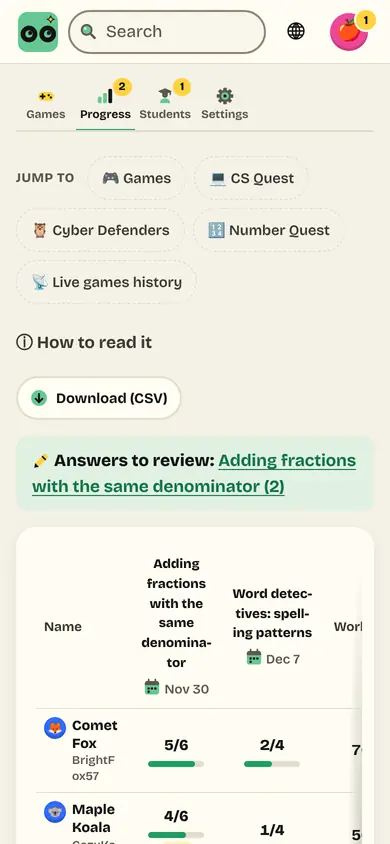
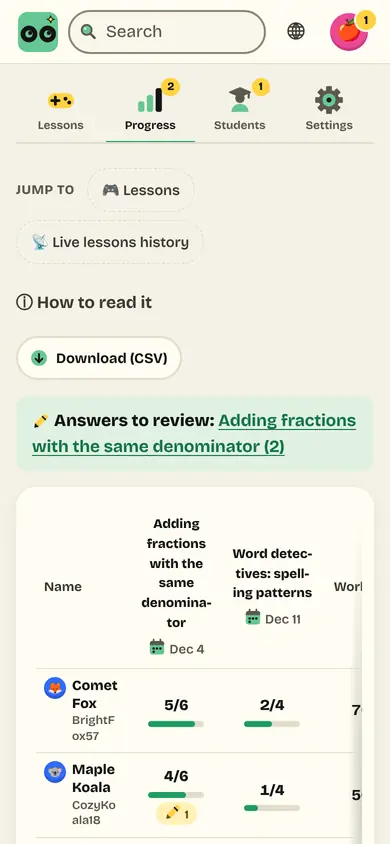
Marketing follow-ups: footer line, no "free" on /teachers/live, Ask Oomba on /compliance, gradebook shot without courses
- Footer: "Free to play, free to build" becomes "Learn, play and build" (12 locales; en-GB reads the English). True for
  everyone, and it names no plan, price or "free" on kids' pages.
- /teachers/live: no "free" claims in the title, description, lead, badges or button; "Host a live lesson". The FAQ
  answer about cost stays (it is accurate: hosting has no plan gate).
- /compliance "Who else receives data": a new Ask Oomba item (Anthropic, traced from services/companion.js), shown
  while COMPANION is on. LEGAL_UPDATED and TRUST_UPDATED 2026-11-27; docs/legal-review.md entry with what the code sends.
- How it works on /teachers: the gradebook step retaken with courses off (no CS Quest, Cyber Defenders or Number Quest
  chips), light and dark, all four sizes. scripts/how-shots.js passes COURSES (default 0) and takes --slug.

Claude-Session: https://claude.ai/code/session_013fJHoNyx7YpmiySDgm2YvR

diff --git a/tests/unit/teacher-marketing.test.js b/tests/unit/teacher-marketing.test.js
@@ -111,6 +111,27 @@ test('/teachers with paid plans off: no free line, no trial; the first button ma
   } finally { config.billingPublic = was; }
 });
 
+test('footer line: "Learn, play and build" on every page with the site footer, kids too, in every language; never a plan, price or "free"', async () => {
+  const kid = auth.createUser({ username: 'FootKid', password: 'a-long-password-1', displayName: 'Foot Kid' });
+  for (const [path, u] of [['/teachers', null], ['/teachers/live', null], ['/compliance', null], ['/me', kid]]) {
+    const s = (await get(path, u)).text, foot = s.slice(s.lastIndexOf('<footer class="foot">'));
+    assert.match(foot, /<span>© Oomba Academy · Learn, play and build<\/span>/, path);
+    assert.doesNotMatch(foot.slice(0, foot.indexOf('</span>')), /free|plan|price/i, path);
+  }
+  for (const [c, line] of [['es', 'Aprende, juega y crea'], ['de', 'Lernen, spielen und bauen'], ['ja', 'まなぶ、あそぶ、つくる'], ['he', 'לומדים, משחקים ובונים']]) assert.equal(makeT(c)('layout.footer.tagline'), `© Oomba Academy · ${line}`, c);
+});
+
+test('/teachers/live: no "free" claims (title, description, lead, badges, buttons); the way in is "Host a live lesson"', async () => {
+  const s = (await get('/teachers/live')).text;
+  const at = s.indexOf('<section class="lp-hero'), hero = s.slice(at, s.indexOf('</section>', at));
+  assert.ok(at > 0);
+  assert.match(s, /<title>Oomba Live: live quiz lessons for your class · Oomba Academy<\/title>/);
+  assert.match(s, /<a class="btn btn-primary btn-big" href="\/teachers\/host">▶ Host a live lesson<\/a>/);
+  assert.doesNotMatch(hero, /\bfree\b/i, 'hero: no free claim');
+  assert.doesNotMatch(s, /Free for teachers|Host a free live|free live quiz|One free account/i);
+  for (const c of ['es', 'fr', 'de', 'ja', 'zh-Hant']) { const t = makeT(c); assert.equal(t('teachersLive.badges.free'), 'teachersLive.badges.free', `${c}: the free badge is gone`); }
+});
+
 test('tagline: "Screen time you can feel good about" on "/" (footer) and /parents (under the heading), in every language', async () => {
   assert.match((await get('/')).text, /<div class="lp-foot-brand">[\s\S]*?<p class="lp-tagline">Screen time you can feel good about<\/p>/);
   const p = (await get('/parents')).text;

diff --git a/scripts/how-shots.js b/scripts/how-shots.js
@@ -8,6 +8,8 @@
 // (<slug>-dark-p-390.webp ...; views/how.js shows those when the page is dark).
 //
 // Usage: npm run how-shots [-- --only parents|teachers|live|dash|tools] [-- --theme dark] [-- --keep]     (--keep leaves the temp data and PNGs)
+//        [-- --slug <slug>] writes only that step's pictures (e.g. --only teachers --slug teachers-gradebook)
+//        COURSES (1 or 0) is passed to the server; unset is off, as on the live site.
 //        HOW_PORT=5990 (the server; the fake Stripe for the family step uses HOW_PORT + 1)
 //        HOW_REAL_BUILDER=1 with ANTHROPIC_API_KEY set: the Builder step from Claude (not deterministic: check it by eye).
 // The tools group (the landing and /teachers): a live math room with every student's square, and a Figures worksheet
@@ -112,6 +114,7 @@ async function main() {
     BRB_DATA_DIR: DATA, PORT: String(PORT), ADMIN_USERNAME: 'admin', ADMIN_PASSWORD: crypto.randomBytes(12).toString('hex'),
     ANTHROPIC_API_KEY: realBuilder ? process.env.ANTHROPIC_API_KEY : '', BRB_MOCK_DELAY_MS: '0',
     BRB_SILENT: '1', TRUST_PROXY: '1', BRB_SNAPSHOTS: '0', CONTACT_EMAIL: 'help@example.com', BRB_ALL_LOCALES: '1',
+    COURSES: process.env.COURSES || '0',
     STRIPE_API_VERSION: '', STRIPE_TAX: '', STRIPE_LIVE_OK: '', STRIPE_WEBHOOK_SECRET_OLD: '', BILLING_PREVIEW_TOKEN: '',
   };
   // Paid-plan pages off: no Stripe at all (the live site today).
@@ -162,7 +165,8 @@ async function main() {
       made.push(...await familyShots(shooter));
     }
     await browser.close(); browser = null;
-    const files = await encodeAll(made, PNG);
+    const slug = args.includes('--slug') ? args[args.indexOf('--slug') + 1] : null;
+    const files = await encodeAll(slug ? made.filter(m => m.slug === slug) : made, PNG);
     report(files);
   } finally {
     if (browser) await browser.close().catch(() => {});

diff --git a/server/routes/trust.js b/server/routes/trust.js
@@ -16,6 +16,7 @@ import { page } from '../views/layout.js';
 import { tHtml, availableLocales, fmt, DEFAULT_LOCALE } from '../i18n/index.js';
 import { isPlatformAdmin } from '../services/schools.js';
 import { googleEnabled } from '../oidc.js';
+import { config } from '../config.js';
 import * as seo from '../seo.js';
 import { el, fb, lp, contactEmail } from './teachers.js';
 import { ico } from '../views/icon.js';
@@ -23,7 +24,7 @@ import { ico } from '../views/icon.js';
 export const router = Router();
 
 /** Last change to the text of these two pages (sitemap lastmod, "Updated" line). Change it with the text. */
-export const TRUST_UPDATED = '2026-11-10';
+export const TRUST_UPDATED = '2026-11-27';
 
 /** The three verified reviews (and only these). The percentiles in research.<key>.stat are where the average student
  *  in the game group lands among the comparison group, from the effect size with normally distributed scores
@@ -143,7 +144,7 @@ router.get('/compliance', (req, res) => {
       ${sec('gdpr', [], { extra: html`${el(t, 'p', 'compliance.gdpr.p1', vars)}${el(t, 'p', 'compliance.gdpr.p2', vars)}${pending(req, 'gdpr')}` })}
       ${sec('dpa', [], { extra: html`${el(t, 'p', 'compliance.dpa.p1', vars)}${el(t, 'p', 'compliance.dpa.p2', vars)}${pending(req, 'dpa')}` })}
       ${sec('keep', ['li1', 'li2', 'li3'])}
-      ${sec('others', ['li1', ...(google ? ['li2'] : []), 'li3'])}
+      ${sec('others', ['li1', ...(config.companion ? ['ask'] : []), ...(google ? ['li2'] : []), 'li3'])}
       ${sec('security', ['li1', 'li2', ...(google ? ['li3'] : [])])}
     </div>
     <section class="panel" id="contact" aria-labelledby="contact-h">${el(t, 'h2', 'compliance.contact.h', {}, ' id="contact-h"')}${el(t, 'p', 'compliance.contact.p', vars)}</section>

diff --git a/tests/unit/research-compliance.test.js b/tests/unit/research-compliance.test.js
@@ -102,6 +102,23 @@ test('/compliance: facts from the Privacy Policy, no compliance claims, contact 
   for (const c of CODES) assert.ok(!JSON.stringify(locale(c)).includes('OWNER AND LAWYER'), c);
 });
 
+test('/compliance "Who else receives data": Ask Oomba (Anthropic) after the Builder item while COMPANION is on, in every language', async () => {
+  const { config } = await import('../../server/config.js');
+  const was = config.companion;
+  try {
+    config.companion = true;
+    const h = main((await get('/compliance')).text);
+    const others = h.slice(h.indexOf('id="others"'), h.indexOf('id="security"'));
+    const words = text(others);
+    assert.ok(words.indexOf('the AI that makes games') < words.indexOf('for Ask Oomba'), 'after the Builder item');
+    for (const s of ['Anthropic (Claude, as above), for Ask Oomba', 'Students’ names, emails, phone numbers and links are taken out first', 'Students’ names and work are never sent', 'Google’s Gemini API']) assert.ok(words.includes(s), s);
+    assert.match(others, /see our <a href="\/privacy">Privacy Policy<\/a>\./);
+    config.companion = false;
+    assert.ok(!text(main((await get('/compliance')).text)).includes('for Ask Oomba'), 'COMPANION off: no item');
+  } finally { config.companion = was; }
+  for (const c of CODES.filter(x => x !== 'en-GB')) { const v = locale(c).compliance.others.ask; assert.ok(v && v.includes('Anthropic') && v.includes('Student A') && v.includes('{privacy}'), c); assert.doesNotMatch(v, /\u2014/, c); }
+});
+
 test('footer links to /research and /compliance for grown-ups who teach and the signed-out, not for kids', async () => {
   const out = (await get('/teachers')).text;
   const foot = out.slice(out.lastIndexOf('<footer'));

diff --git a/tests/unit/legal.test.js b/tests/unit/legal.test.js
@@ -39,7 +39,7 @@ test('/terms, /refunds and /privacy are public, dated, and show every paragraph 
     const r = await get(path); assert.equal(r.status, 200, path);
     const text = decode(r.text);
     assert.match(text, new RegExp(`<h1>[^<]*${en[`info.${key}.heading`]}</h1>`), `${path} heading`);
-    assert.match(text, new RegExp(`Last updated: <time datetime="${LEGAL_UPDATED}">November 24, 2026</time>`), `${path} date`);
+    assert.match(text, new RegExp(`Last updated: <time datetime="${LEGAL_UPDATED}">November 27, 2026</time>`), `${path} date`);
     assert.match(text, /href="mailto:greg@oomba\.ai"/, `${path} contact`);
     for (const k of Object.keys(en).filter(k => k.startsWith(`info.${key}.`) && !k.startsWith('info.privacy.more.') && !k.startsWith('info.privacy.made.') && /\.(p|li|s)\d+$/.test(k))) {
       const words = plain(en[k]).slice(0, 60);
@@ -164,7 +164,7 @@ test('the legal text never takes a language out of the picker; Hebrew legal page
   const r = await get('/privacy?for=grownups', { cookie: 'lang=he' });
   assert.equal(r.status, 200);
   assert.match(r.text, /<html[^>]*dir="rtl"/);
-  assert.match(r.text, /<time datetime="2026-11-24">/);
+  assert.match(r.text, /<time datetime="2026-11-27">/);
   // Every section is translated now: nothing on the Hebrew pages is marked as English.
   assert.match(r.text, /<section class="panel" id="payments"><h2>/);
   assert.match(r.text, /<section class="panel" id="stored"><h2>/);

diff --git a/tests/unit/quick-live.test.js b/tests/unit/quick-live.test.js
@@ -267,7 +267,7 @@ test('the doors: "/", /teachers and /teachers/live send teachers to the teacher 
   assert.match((await call('/teachers', { user: teacher })).text, /href="\/live\/quick" id="host-now"/);
   assert.doesNotMatch((await call('/teachers', { user: kid })).text, /id="host-now"/, 'a child is not offered hosting');
   const tl = await call('/teachers/live');
-  assert.match(tl.text, /<a class="btn btn-primary btn-big" href="\/teachers\/host">▶ Host a free live lesson<\/a>/);
+  assert.match(tl.text, /<a class="btn btn-primary btn-big" href="\/teachers\/host">▶ Host a live lesson<\/a>/);
   assert.doesNotMatch(tl.text, /grown-ups\/signup/, 'a teacher is never sent to the parent sign-up');
   // the landing's click counter knows the new button
   const c = await call('/landing/count/host', { method: 'POST', headers: { 'sec-fetch-site': 'same-origin', 'user-agent': 'Mozilla/5.0 Chrome/141.0' } });

diff --git a/tests/unit/seo.test.js b/tests/unit/seo.test.js
@@ -381,7 +381,7 @@ test('/teachers/live: the Oomba Live page for teachers, linked from /teachers, i
   assert.match(page.text, /Live quiz games your whole class plays together/);
   // Signed out: the short teacher sign-up that goes straight on to hosting (routes/quick-live.js), never the parents'
   // sign-up and never a bare sign-in page.
-  assert.match(page.text, /<a class="btn btn-primary btn-big" href="\/teachers\/host">▶ Host a free live game<\/a>/, 'signed out: the teacher sign-up, then straight to hosting');
+  assert.match(page.text, /<a class="btn btn-primary btn-big" href="\/teachers\/host">▶ Host a live lesson<\/a>/, 'signed out: the teacher sign-up, then straight to hosting');
   assert.doesNotMatch(page.text, /grown-ups\/signup|href="\/login\?next=%2Flive"/);
   assert.match(page.text, /href="\/join"/);
   assert.match(page.text, /Up to 60 in a class room/);

diff --git a/server/routes/teachers.js b/server/routes/teachers.js
@@ -488,7 +488,7 @@ router.get('/teachers/live', (req, res, next) => {
   // (Signed out: the three-field teacher sign-up and the Quick game chooser, routes/quick-live.js. It used to be the
   // parents' sign-up, which made a parent account for a teacher.)
   const hostHref = host ? '/live' : '/teachers/host';
-  const badges = [['✅', 'free'], ['🚫', 'ads'], ['🙅', 'noAccounts'], ['💻', 'browser'], ['🌍', 'languages']];
+  const badges = [['🚫', 'ads'], ['🙅', 'noAccounts'], ['💻', 'browser'], ['🌍', 'languages']];
   const vars = { max: config.liveMaxPlayers, open: GROWNUP_OPEN_MAX, items: SET_LIMITS.items };
   const faq = faqBlock(req, [1, 2, 3, 4, 5].map(n => [`teachersLive.faq.q${n}`, `teachersLive.faq.a${n}`]), 'teachersLive.faq.h', vars);
   // Each mode says how many players it is made for (classlive-access.js CAPACITY, docs/live-capacity.md).

diff --git a/server/routes/info.js b/server/routes/info.js
@@ -18,7 +18,7 @@ export const router = Router();
 const indexed = (path, key) => ({ index: true, path, langs: langsWithKey(key) });
 
 /** The legal pages' "Last updated" date (a calendar day, UTC). Change it with every change to their text. */
-export const LEGAL_UPDATED = '2026-11-24';
+export const LEGAL_UPDATED = '2026-11-27';
 /** Where the legal pages send people: CONTACT_EMAIL, else the owner's address. */
 const legalEmail = () => config.contactEmail || 'greg@oomba.ai';
 // The speech-to-text company named in the privacy text (STT_PROVIDER): a company name, never translated.

diff --git a/docs/legal-review.md b/docs/legal-review.md
@@ -3,7 +3,7 @@
 /terms, /refunds and /privacy (server/routes/info.js, text in `info.terms.*`, `info.refunds.*`, `info.privacy.*` and the
 reused `info.parents.*` sections) are on the site for everyone, also before `BILLING_PUBLIC`. They were made from the
 drafts terms.md, refunds.md and privacy-payments.md. The public text has no drafting markers; every marker from the
-drafts is listed here with what the page says today. **Last updated: 2026-11-20** (`LEGAL_UPDATED` in
+drafts is listed here with what the page says today. **Last updated: 2026-11-27** (`LEGAL_UPDATED` in
 server/routes/info.js; change it with every change to the text).
 
 ## Sign-off (2026-11-09)
@@ -709,6 +709,57 @@ account." Retention is unchanged: each past chat is deleted 60 days after it was
 with its files; at most 50 past chats are kept (the oldest go). Question for the lawyer: does keeping several past
 conversations (each with the placeholder-to-student mapping of its messages) need anything beyond the existing retention
 wording and the school terms?
+
+### Ask Oomba on /compliance "Who else receives data" (2026-11-27; owner request; LAWYER REVIEW PENDING)
+
+Addendum to the companion entries above; LEGAL_UPDATED moved to 2026-11-27 (and TRUST_UPDATED, the /compliance and
+/research date, to 2026-11-27). /compliance "Who else receives data" had only the Builder under Anthropic, so it did not
+say that Ask Oomba, the teachers' chat (services/companion.js), also sends data to Anthropic. New item
+`compliance.others.ask` (12 languages; en-GB reads the English), shown after the Anthropic item while `COMPANION` is on:
+
+- "Anthropic (Claude, as above), for Ask Oomba, the chat on teachers' own pages: the teacher's messages and the earlier
+  messages in the same chat, the text of a document or a picture they attach, and facts about the page they have open,
+  such as a class's grade, subject and number of students, a dashboard's widgets, and their own worksheets, boards,
+  lesson plans and handout titles. Students' names, emails, phone numbers and links are taken out first. On the Hub's
+  Needs a look list, each student is only a placeholder like "Student A", with the reason the app noted, such as minutes
+  stuck or a quiz score. Students' names and work are never sent, and students never see Ask Oomba. Web searches go to
+  Anthropic's web search, never with a name or a location. For speech to text and book pictures (Google's Gemini API),
+  see our Privacy Policy."
+
+What the code sends (traced 2026-11-27), all through the Anthropic SDK (builder/anthropic.js, `ANTHROPIC_API_KEY`, the
+SDK's default host api.anthropic.com; model `COMPANION_MODEL` or `BUILDER_MODEL`):
+
+- **The conversation** (companion.js `answer`, `messagesFor`): the system prompt (rules only: no teacher or school name),
+  the teacher's new message and the chat's earlier turns (the school's "messages sent to the AI", default 8). Every
+  teacher message is stored and sent after `tokenize` (builder/lesson.js `scrub`: roster, display and user names of the
+  teacher's students become "[student N]"; emails, phone numbers and links come out); the placeholder-to-account map
+  (`meta._who`) stays on the server.
+- **Attachments:** a document's extracted text (scrubbed, at most 10,000 characters, through the `readUpload` tool); a
+  picture (cleaned JPEG) goes twice: once to the picture check (`screenImage`: refused if it shows any person or private
+  details) and once with the message.
+- **Tool results** (`runTool`): `getPageContext` (page type; class id, name and subject scrubbed, grade, number of
+  students; a dashboard's widget types, sizes and number/switch/choice settings, never their text; a Figures worksheet's
+  questions; a manipulatives board's items; on the Hub, homeroom-plan.js `aiContext`: groups with head counts, the
+  teacher's lessons and games by title, recent handout titles with how many of the class finished, handout instructions
+  scrubbed, saved plan names); the searches over Oomba's own catalog; `findMyPages` (ids, scrubbed names, grades).
+- **Needs a look** (`needsLook`, homeroom-look.js `forAi`): each flagged student as "Student A", "Student B"..., with the
+  rule's reason and its numbers (minutes stuck, tries, handouts after due, right out of total on a reading quiz under 60
+  percent), whether the student has Hub supports and whether they work at home. No name, no account id, no answers or
+  work. This is pseudonymous progress information about individual students; the text says so ("a quiz score").
+- **Web search:** Anthropic's server web search tool (builder/search.js), queries screened and logged, no location.
+- **Not Anthropic:** the microphone goes to the STT_PROVIDER (OpenAI api.openai.com or ElevenLabs api.elevenlabs.io;
+  services/stt.js); book pictures made from the chat go to Google's Gemini API (generativelanguage.googleapis.com;
+  services/storybook-gemini.js). Both are already described on /privacy, so the item points there.
+
+Questions for the lawyer:
+
+1. Needs a look sends per-student, pseudonymous progress signals (a quiz score, minutes stuck, a "has supports" flag).
+   Is "never names or work" plus "a placeholder with the reason, such as a quiz score" an adequate description for
+   FERPA and the state laws, or should /privacy's companion section (which says "never students' names, answers or
+   work") name these signals too? The "has supports" flag in particular may count as sensitive.
+2. A teacher can attach a document or a picture of their choosing (a worksheet photo, for example); names on our
+   rosters are taken out, but the content is the teacher's choice. Is the in-app guidance enough, or does the item need
+   to say that attachments are sent as the teacher chooses them?
 
 ### Comparison page naming Kahoot!, Classroomscreen, Brainingcamp: lawyer review pending (2026-11-22)
 
